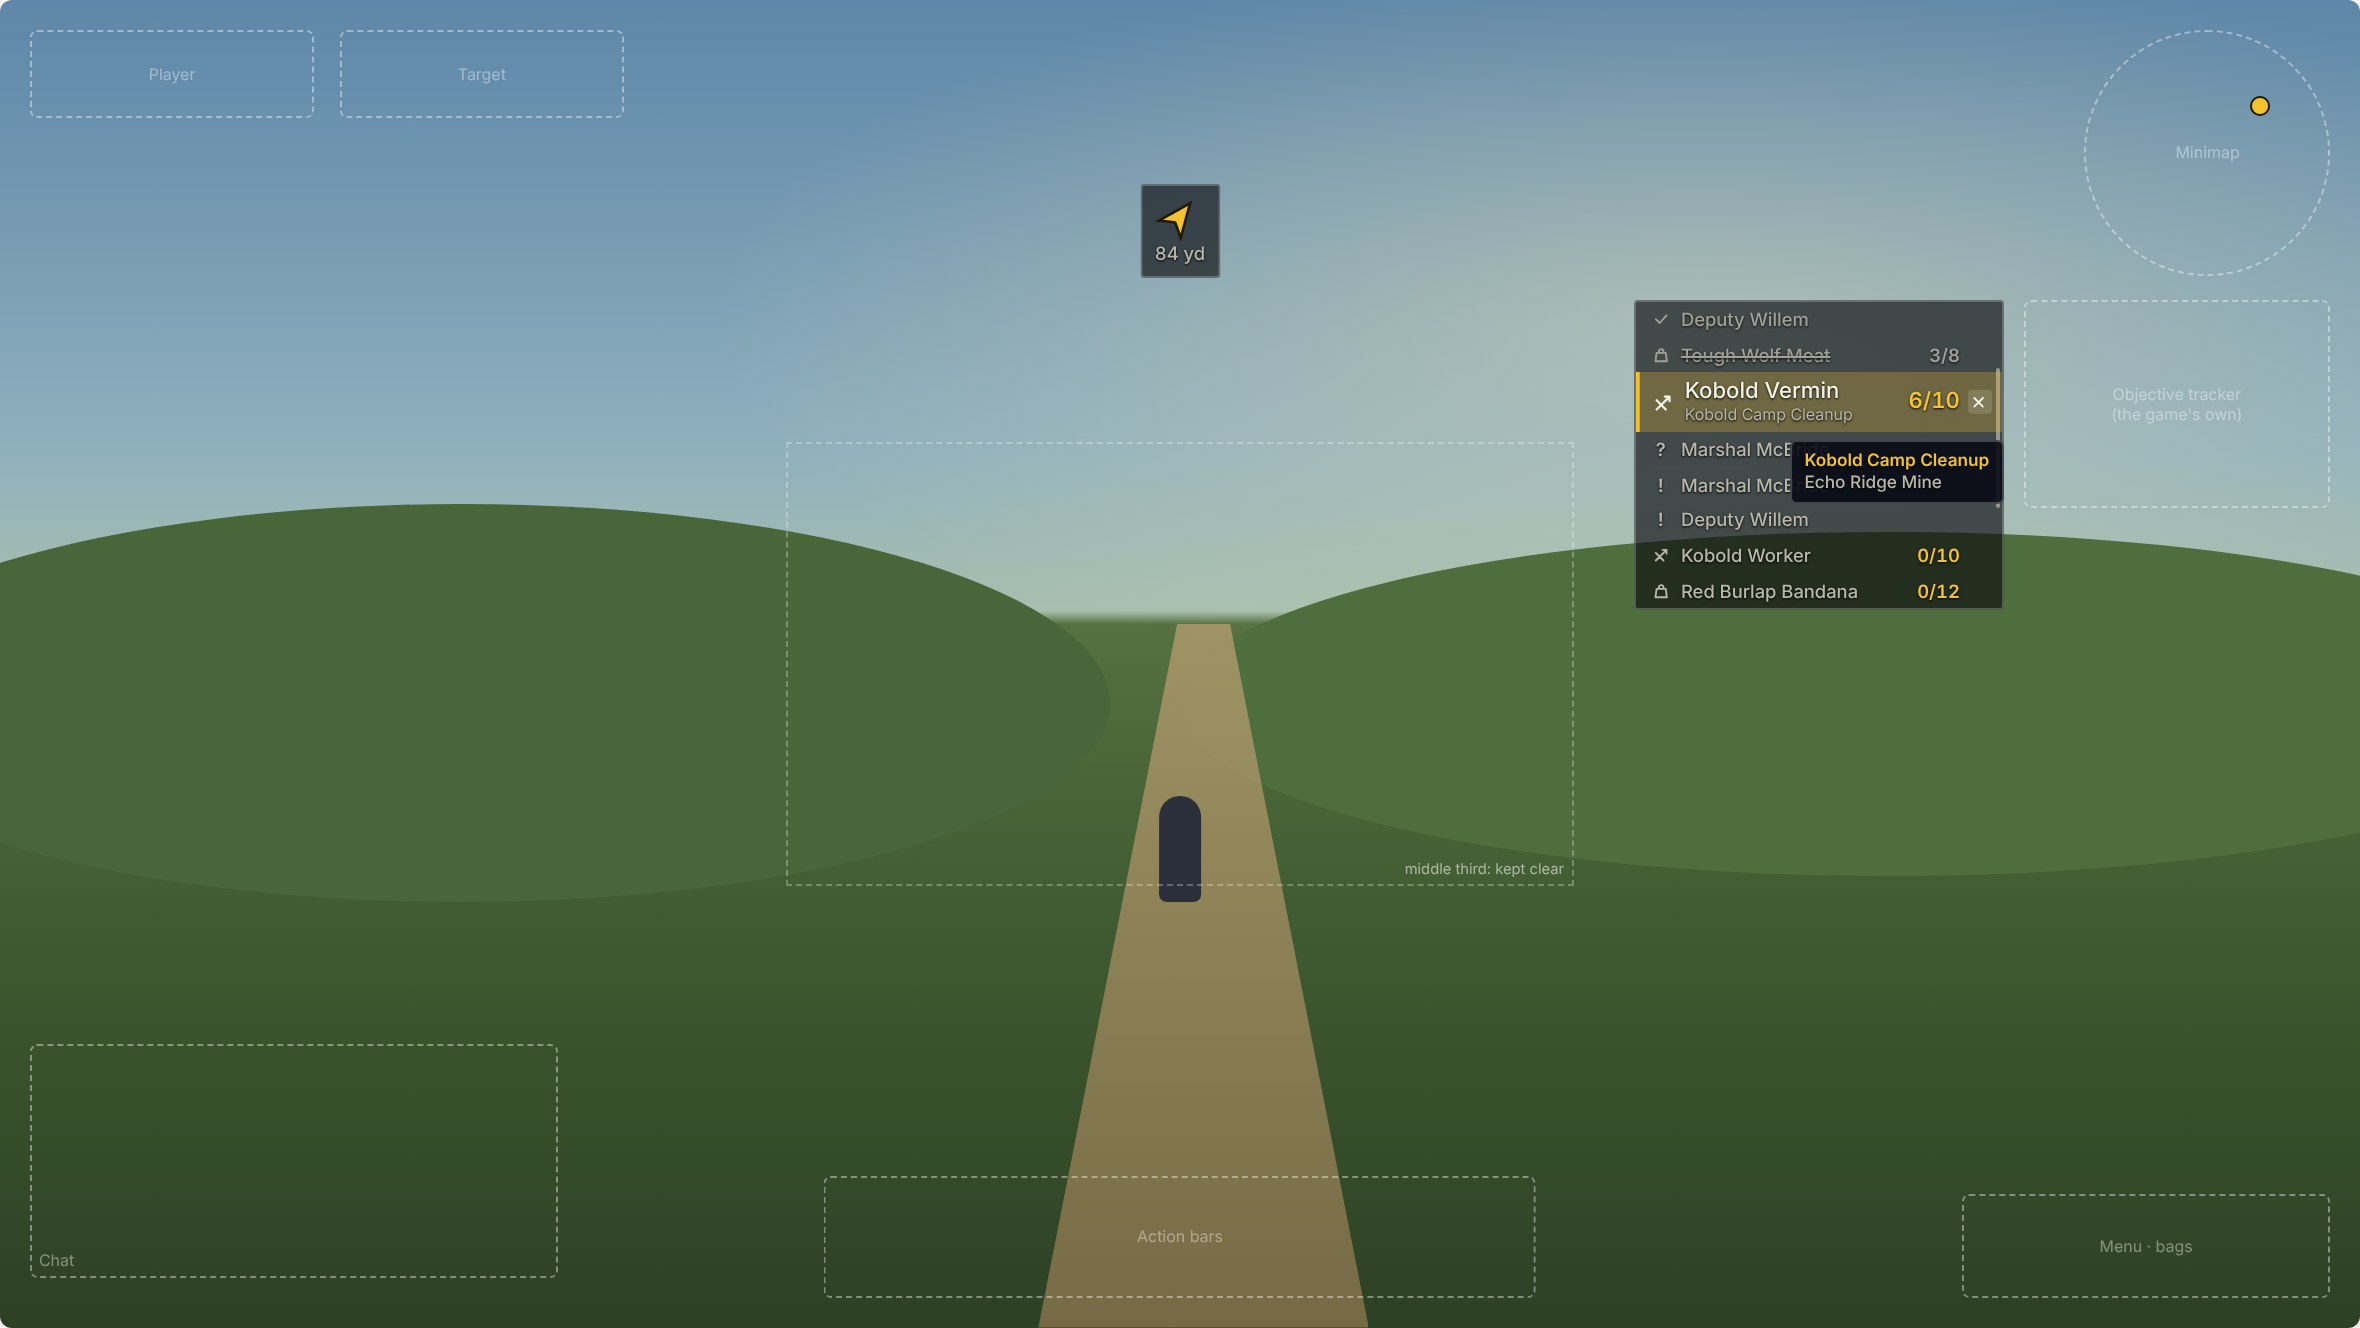
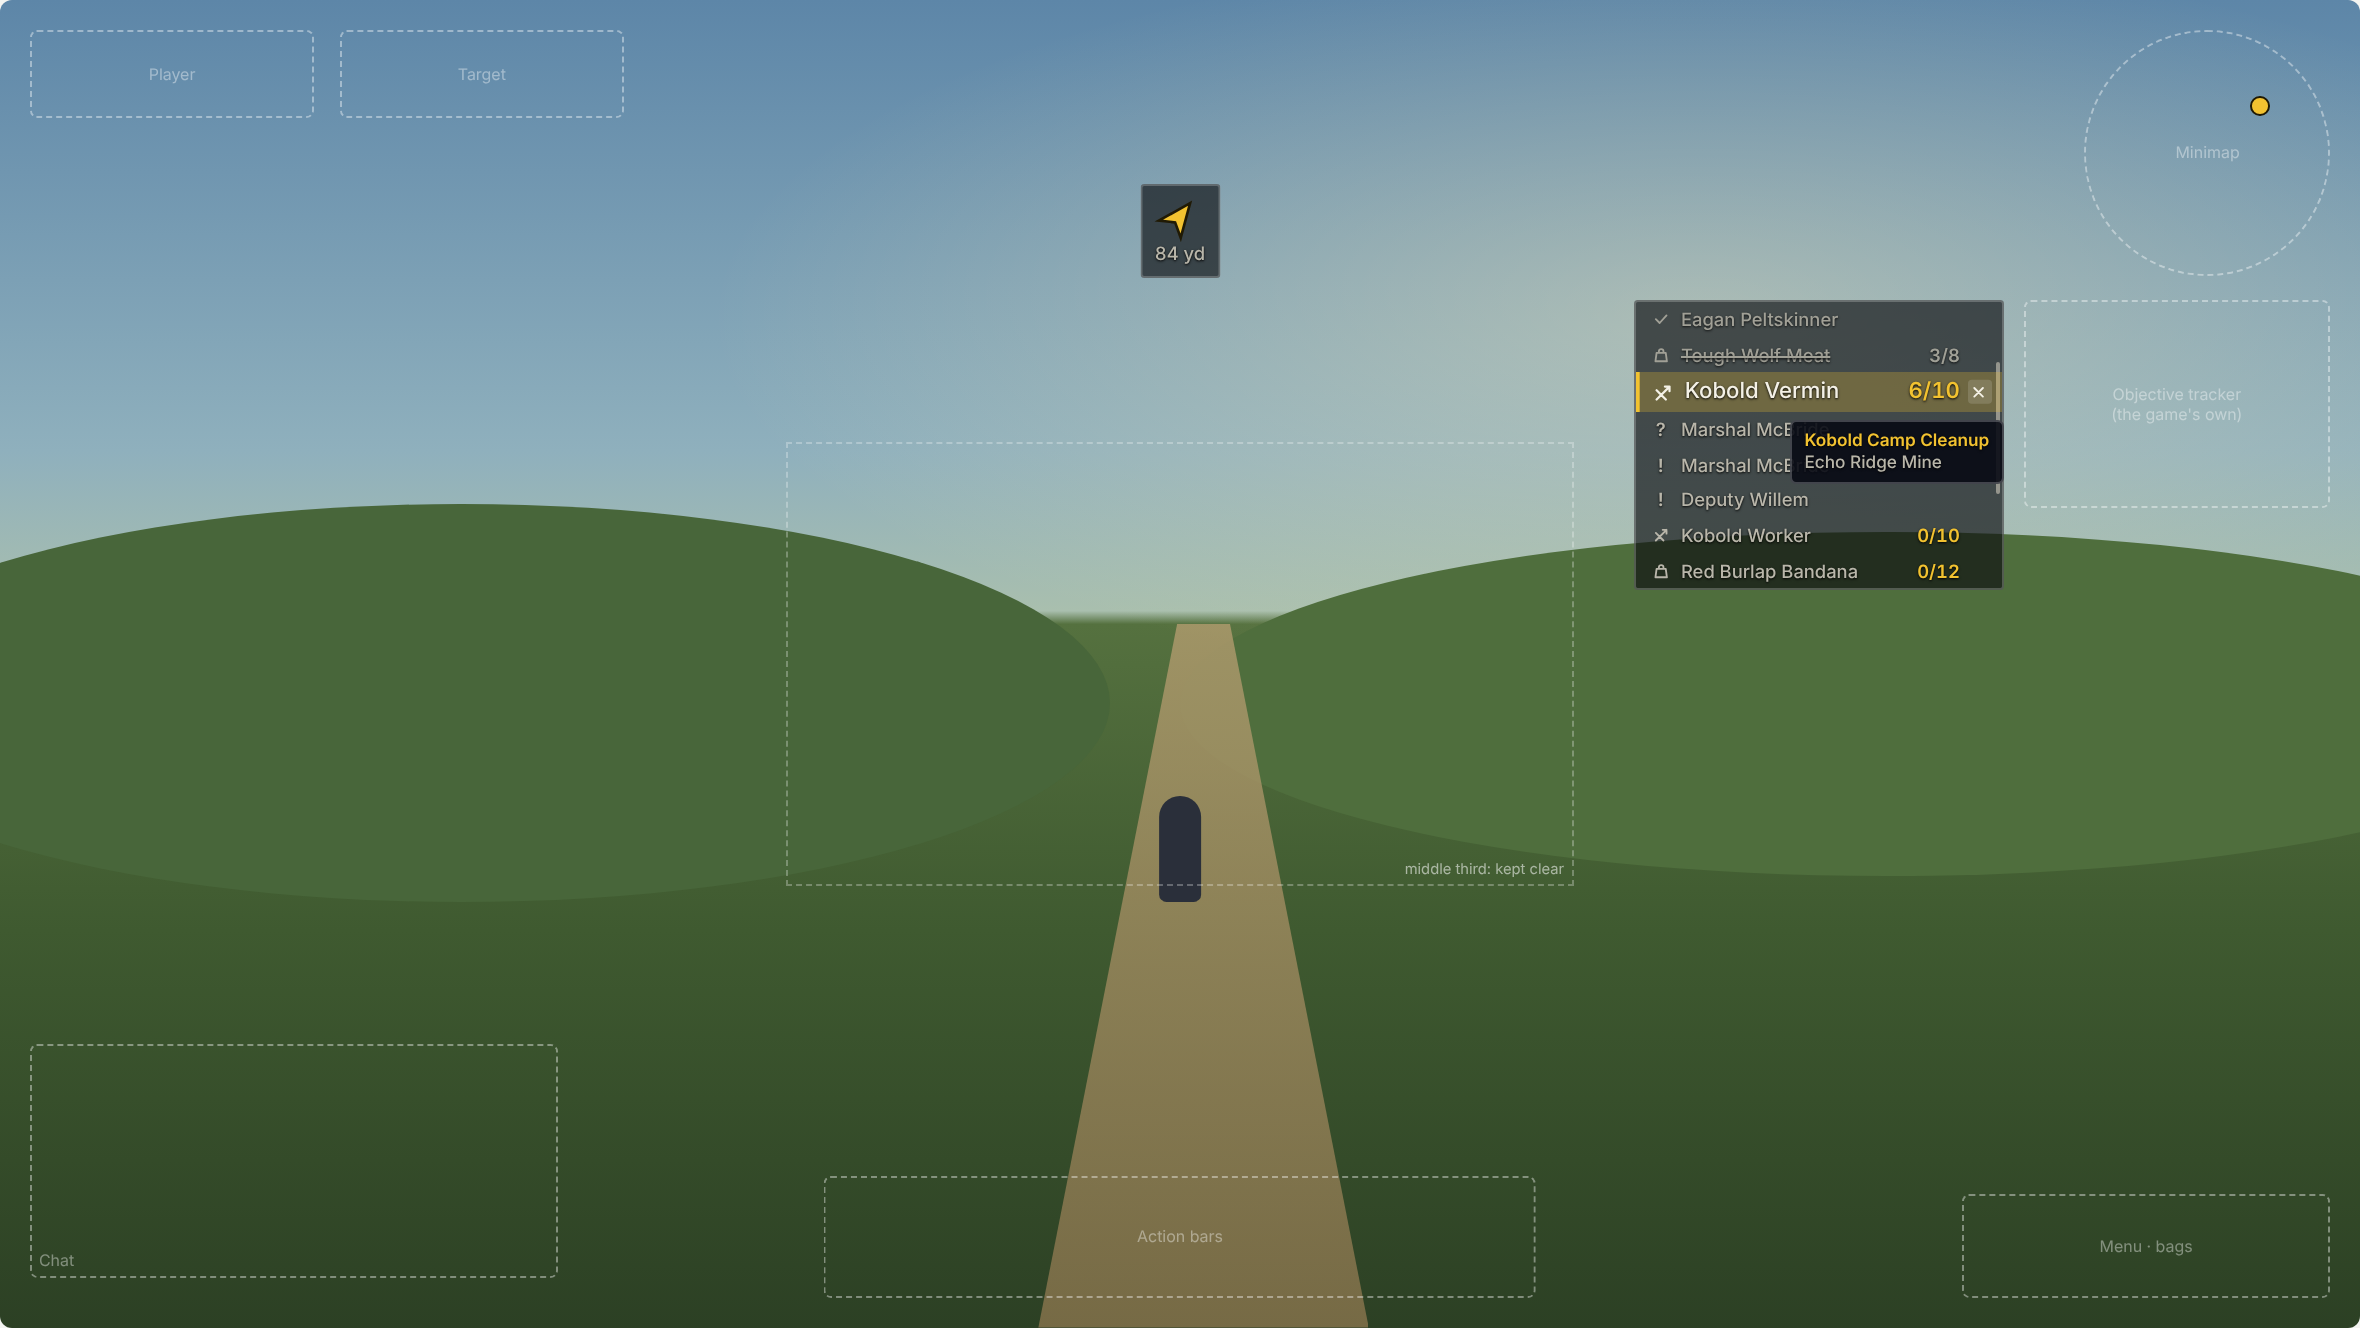
Drop the quest-name line from the current step
Claude-Session: https://claude.ai/code/session_015S5PSNxGyghreRZzE3uVNk

Changed region(s): [[0.6805, 0.2779, 0.8661, 0.4631], [0.7114, 0.2161, 0.7733, 0.247]]

diff --git a/docs/mockups/ui-directions.html b/docs/mockups/ui-directions.html
@@ -279,7 +279,6 @@ h3{font:600 15px/1.3 var(--display);margin:0;display:flex;align-items:center;fle
     <div class="demo5" id="flow"></div>
     <ul>
       <li><b>The current step does not jump.</b> It is always the third row, marked by a band. When a step ends, the list slides up one row under it.</li>
-      <li><b>The current step names its quest.</b> A small second line, on that row only.</li>
       <li><b>History is visible.</b> The two rows above the band are what you just did: a tick for finished, crossed out for skipped.</li>
       <li><b>Skipping keeps the step.</b> A cross appears at the right end of the row under the pointer. The skipped step stays in the list, crossed out.</li>
       <li><b>Scroll back any time.</b> The mouse wheel moves through the whole route. A skipped step offers a restore arrow on its left, where its icon was; restoring makes it the current step again. The list returns to the current step by itself after a few seconds.</li>
@@ -353,7 +352,7 @@ h3{font:600 15px/1.3 var(--display);margin:0;display:flex;align-items:center;fle
     var cls=(done?'done ':'')+(sk?'skipd strike ':'')+(cur?'cur ':'')+(!done&&!sk&&!cur?'later ':'')+(hot?'hot':'');
     var cnt=(v.cnt&&v.cnt[i])||s[2], ic=done?TICK:ICON[s[0]];
     return '<div class="row step '+cls+'">'+(hot&&sk?'<span class="kind sw"><span class="lbtn">'+UNDO+'</span></span>':'<span class="kind">'+ic+'</span>')+
-      '<span class="txt">'+s[1]+(cur?'<small>'+s[3]+'</small>':'')+'</span>'+(cnt&&!(done&&!v.cnt)?'<span class="count">'+cnt+'</span>':'')+
+      '<span class="txt">'+s[1]+'</span>'+(cnt&&!(done&&!v.cnt)?'<span class="count">'+cnt+'</span>':'')+
       (hot&&!sk?'<span class="skipx">'+X+'</span>':'')+'</div>';
   }
   function card(m,pos){

diff --git a/docs/ui-concepts.md b/docs/ui-concepts.md
@@ -313,7 +313,8 @@ Height should be adjustable. The mockup uses the first stretch of Northshire wit
 interleaved: [`mockups/step-list-flow.png`](mockups/step-list-flow.png),
 [`mockups/guide-window-on-screen.png`](mockups/guide-window-on-screen.png).
 
-Decided: the current step carries its quest name as a small second line; other rows are plain.
+Decided: rows are plain (icon, name, count). A quest-name line on the current step was tried
+and dropped: the player does not need it there. The quest name remains in the hover tooltip.
 
 Decided after two placements were drawn: skip is a cross at the right end of the pending row
 under the pointer; restore is an arrow on the left of a skipped row, taking the place of its
@@ -359,7 +360,7 @@ Not in v1: secure "use item" button, automation, an all-quests map layer, toolti
 ## 9. What is built
 
 `addon/LevelingAddon/` implements the guide window and arrow described in section 6 against a
-fixed sample route: fixed current row with quest name, history above, crossed-out skipped
+fixed sample route: fixed current row, history above, crossed-out skipped
 steps, skip on the right and restore on the left under the pointer, mouse-wheel scrolling with
 automatic return, combat folding, saved position, TomTom hand-off. Checked only by lint and a
 stubbed smoke test; not yet run in the game client.
